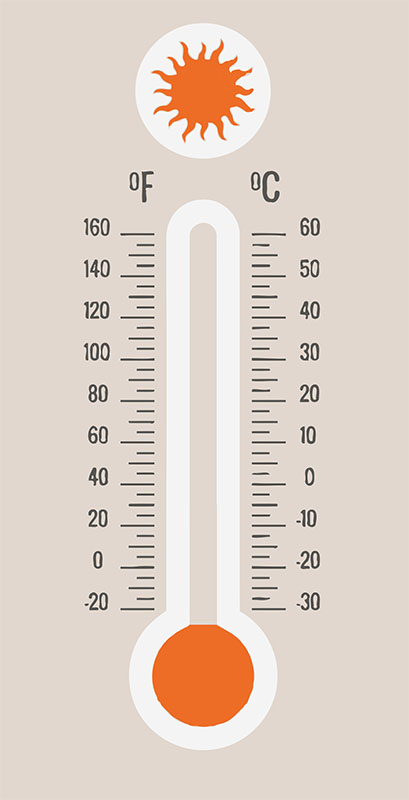
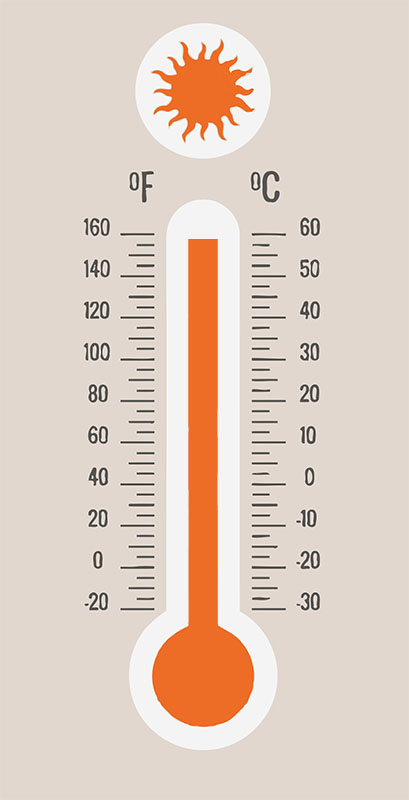
all basic

Changed region(s): [[0.4401, 0.2812, 0.5575, 0.7812]]

diff --git a/javascript_b4.js b/javascript_b4.js
@@ -1,0 +1,14 @@
+var a = (Math.round(Math.random()*30));
+
+
+var mesure = document.getElementById("measure");
+
+a = a*5;
+mesure.innerHTML="<img src='./img/measure.png' id='measure' alt='thermo basis' width='30px' height='"+a+"'>";
+
+
+if (a<=10) {
+ document.write("the weather is cold");
+} else {
+  document.write("the weather is moderate");
+}

diff --git a/4th_basic_excercise.html b/4th_basic_excercise.html
@@ -1,0 +1,19 @@
+<!DOCTYPE html>
+<html>
+<head>
+	<title>JS DAY 3</title>
+	<link rel="stylesheet" type="text/css" href="style.css">
+</head>
+
+<body>
+
+	<div id="basis">
+	   <img src="./img/thermo_basis.jpg" alt="thermo basis">
+	   <div id="measure">
+	   	
+	   </div>
+	</div>
+
+<script src="javascript_b4.js"></script>
+</body>
+</html>

diff --git a/style.css b/style.css
@@ -1,0 +1,12 @@
+#basis {
+	margin: auto;
+    width: 409px;
+    padding: 10px;
+}
+
+#measure {
+	position: relative;
+	margin: auto;
+	top: -290px;
+	left: 94px;
+}
